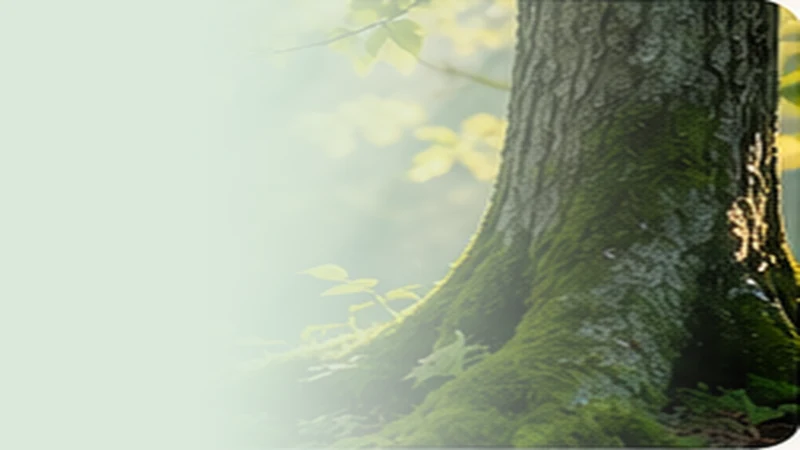
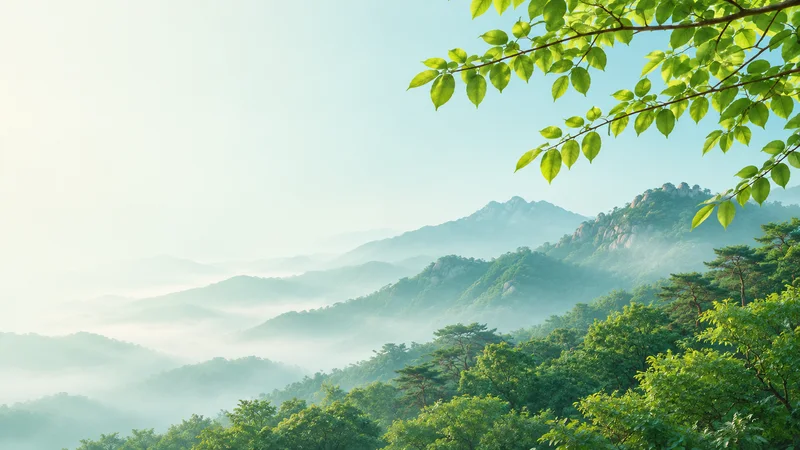
Use new homepage and meditation backgrounds

diff --git a/public/app.js b/public/app.js
@@ -77,7 +77,7 @@ function welcomeGuide(){return !db.user?`<section class="section welcome-section
   ['2','무료로 신청해요','카카오 로그인 후 간편하게 신청해요.'],
   ['3','확정되면 만나요','MY에서 확인하고, 모임 전날 카카오톡으로 안내해요.']
 ].map(([n,t,p])=>`<div class="welcome-step"><span>${n}</span><div><b>${t}</b><p>${p}</p></div></div>`).join('')}</div></section>`:''}
-function home(){const shortcuts=[['문학 · 고전','문학','book'],['철학 · 사유','철학','leaf'],['명상 · 마음','명상','lotus'],['글쓰기 · 창작','글쓰기','pencil'],['자유모임','자유모임','users']];return `<header class="top home-top"><div class="brand home-brand"><span>SOYO SALON</span><small>소요살롱</small></div><div class="home-actions"><span class="home-bell" aria-hidden="true">${icon('bell',24)}</span><button class="icon" aria-label="소요살롱 소개" onclick="nav('about')">☰</button></div></header><section class="hero home-hero"><div class="hero-art" aria-hidden="true"><img src="/images/categories/category-literature.webp" alt=""><span class="hero-sun"></span><span class="hero-coral"></span></div><div class="eyebrow">逍遙 · 자유롭게 거닐다</div><h1>책에서 시작해,<br>서로의 세계를 만나는 시간.</h1><p>책을 읽고, 마음에 남은 문장을 나눕니다.<br>서로 다른 생각과 삶이 만나는 작은 모임입니다.</p></section><nav class="home-category-grid" aria-label="모임 카테고리 바로가기">${shortcuts.map(([label,category,ico])=>`<button class="home-category" style="--category-background:${categoryInfo[categorySlug({category})].background};--category-accent:${categoryInfo[categorySlug({category})].accent}" onclick="filter='${category}';nav('events')">${icon(ico,31)}<span>${label}</span></button>`).join('')}</nav><section class="home-open-section"><div class="home-open-heading"><div><span>SOYO SALON</span><h2>지금 모집 중인 모임</h2></div><button onclick="nav('events')">모든 모임 보기 ↗</button></div><div class="home-event-list">${db.events.filter(e=>state(e)==='모집 중').slice(0,3).map(homeCard).join('')||'<p class="home-empty">지금 함께할 모임을 준비하고 있어요.</p>'}</div></section>${welcomeGuide()}`}
+function home(){const shortcuts=[['문학 · 고전','문학','book'],['철학 · 사유','철학','leaf'],['명상 · 마음','명상','lotus'],['글쓰기 · 창작','글쓰기','pencil'],['자유모임','자유모임','users']];return `<header class="top home-top"><div class="brand home-brand"><span>SOYO SALON</span><small>소요살롱</small></div><div class="home-actions"><span class="home-bell" aria-hidden="true">${icon('bell',24)}</span><button class="icon" aria-label="소요살롱 소개" onclick="nav('about')">☰</button></div></header><section class="hero home-hero"><div class="hero-art" aria-hidden="true"><img src="/images/home-hero-bg.webp" alt=""></div><div class="eyebrow">逍遙 · 자유롭게 거닐다</div><h1>책에서 시작해,<br>서로의 세계를 만나는 시간.</h1><p>책을 읽고, 마음에 남은 문장을 나눕니다.<br>서로 다른 생각과 삶이 만나는 작은 모임입니다.</p></section><nav class="home-category-grid" aria-label="모임 카테고리 바로가기">${shortcuts.map(([label,category,ico])=>`<button class="home-category" style="--category-background:${categoryInfo[categorySlug({category})].background};--category-accent:${categoryInfo[categorySlug({category})].accent}" onclick="filter='${category}';nav('events')">${icon(ico,31)}<span>${label}</span></button>`).join('')}</nav><section class="home-open-section"><div class="home-open-heading"><div><span>SOYO SALON</span><h2>지금 모집 중인 모임</h2></div><button onclick="nav('events')">모든 모임 보기 ↗</button></div><div class="home-event-list">${db.events.filter(e=>state(e)==='모집 중').slice(0,3).map(homeCard).join('')||'<p class="home-empty">지금 함께할 모임을 준비하고 있어요.</p>'}</div></section>${welcomeGuide()}`}
 function empty(t){return `<div class="empty">${icon('book',32)}<p>${t}</p></div>`}
 function events(){let list=db.events.filter(e=>filter==='전체'||categorySlug(e)===categorySlug({category:filter}));return `${header('함께 읽는 모임')}<section class="content">${eyebrow('FIND YOUR NEXT CHAPTER')}<h1 class="page-title">이번에는 어떤 책을<br>함께 읽어볼까요?</h1><p class="subcopy">읽고 싶은 마음만 있다면 충분해요.</p><div class="chiprow" aria-label="모임 분류">${['전체','문학','철학','명상','글쓰기','원서','자유모임'].map(c=>`<button class="chip ${filter===c?'on':''}" aria-pressed="${filter===c}" onclick="filter='${c}';render()">${c}</button>`).join('')}</div>${list.map(e=>card(e)).join('')||empty('이 분야의 모임을 준비하고 있어요.')}</section>`}
 function detail(){

diff --git a/public/styles.css b/public/styles.css
@@ -122,3 +122,9 @@
 .hero-coral{left:66%;bottom:-163px;width:190px;height:190px}
 @media(max-width:370px){.home-category-grid{gap:8px;padding-left:12px;padding-right:12px}.home-category{flex-basis:78px;min-width:78px}.hero-sun{left:43%;bottom:-128px;width:150px;height:150px}.hero-coral{left:69%;bottom:-158px;width:160px;height:160px}}
 @media(min-width:800px){.home-category-grid{gap:16px;padding-left:56px;padding-right:56px}.home-category{flex:1 0 0;min-width:0}.hero-sun{left:39%;bottom:-163px;width:250px;height:250px}.hero-coral{left:67%;bottom:-195px;width:280px;height:280px}}
+/* Use the supplied arch and circle artwork as the full hero backdrop. */
+.hero-art{inset:0;width:100%;height:100%;right:auto;top:0;overflow:hidden;border-radius:0;background:#faf8f5}
+.hero-art:after{background:linear-gradient(90deg,#faf8f5a8 0%,#faf8f54d 35%,transparent 70%)}
+.hero-art img{object-fit:cover;object-position:center;filter:none}
+.hero-sun,.hero-coral{display:none}
+@media(max-width:600px){.hero-art img{object-position:58% center}.hero-art:after{background:linear-gradient(90deg,#faf8f58c 0%,#faf8f52e 48%,transparent 78%)}}
